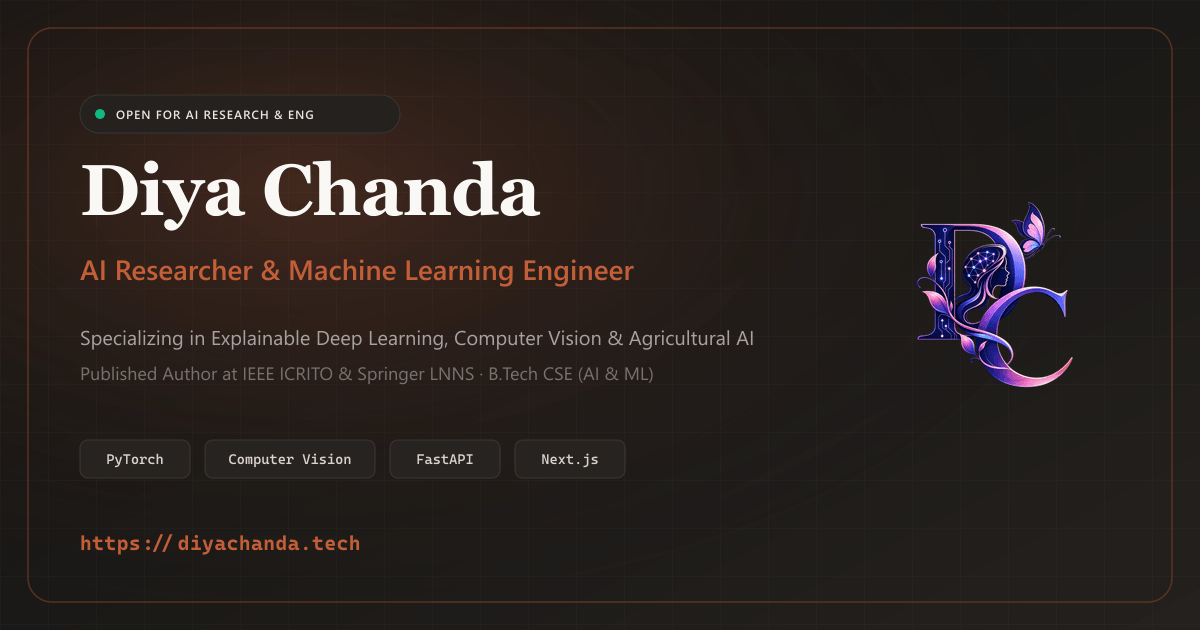
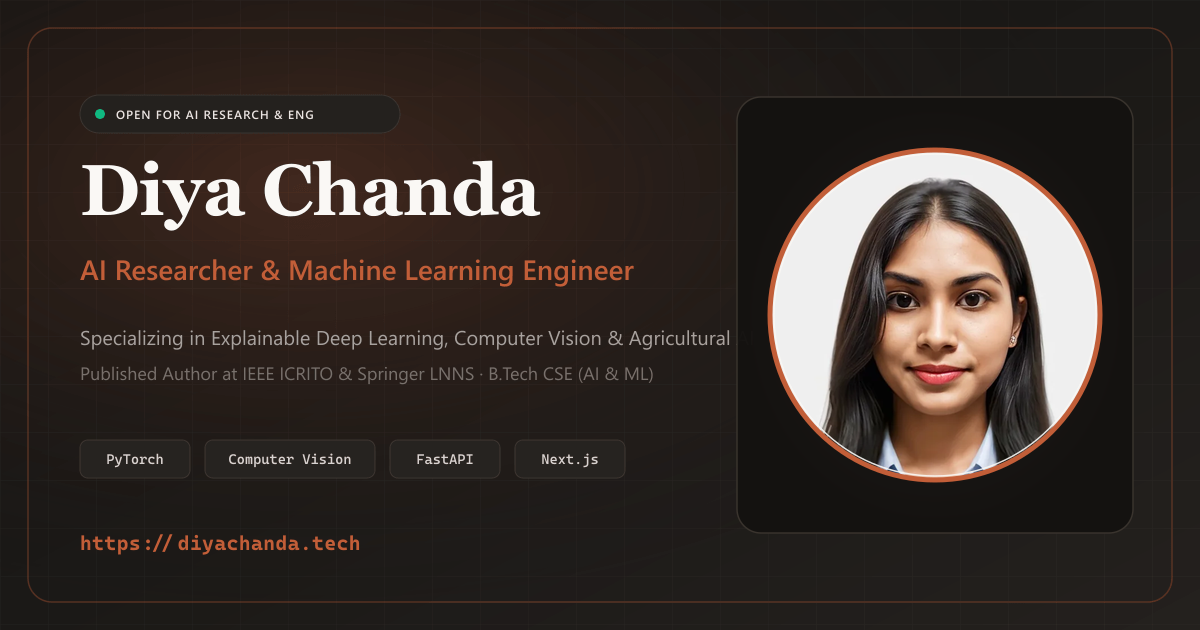
feat: add SEO metadata, OpenGraph images, and JSON-LD structured data

Changed region(s): [[0.6167, 0.2111, 0.925, 0.7841]]

diff --git a/src/components/common/StructuredData.tsx b/src/components/common/StructuredData.tsx
@@ -15,7 +15,7 @@ export const StructuredData = () => {
         name: 'Diya Chanda',
         url: baseUrl,
         logo: `${baseUrl}/images/logo.png`,
-        image: `${baseUrl}/images/og-image.png`,
+        image: `${baseUrl}/images/profile-square.png`,
         sameAs: [
           'https://github.com/chandadiya2004',
           'https://www.linkedin.com/in/diya-chanda2004/',
@@ -61,7 +61,7 @@ export const StructuredData = () => {
           description:
             'AI researcher and machine learning engineer bridging empirical deep learning with production web systems. Specializing in explainable AI, computer vision, and RAG-augmented intelligent architectures. Published author at IEEE ICRITO and Springer LNNS.',
           url: baseUrl,
-          image: `${baseUrl}/images/profile.webp`,
+          image: `${baseUrl}/images/profile-square.png`,
           sameAs: [
             'https://github.com/chandadiya2004',
             'https://www.linkedin.com/in/diya-chanda2004/',
@@ -91,7 +91,7 @@ export const StructuredData = () => {
         },
         primaryImageOfPage: {
           '@type': 'ImageObject',
-          url: `${baseUrl}/images/profile.webp`,
+          url: `${baseUrl}/images/profile-square.png`,
         },
       },
       /* Published Research Papers Schema - dynamically synced from research.json */

diff --git a/src/app/layout.tsx b/src/app/layout.tsx
@@ -95,10 +95,16 @@ export const metadata: Metadata = {
     siteName: 'Diya Chanda',
     images: [
       {
+        url: '/images/profile-square.png',
+        width: 800,
+        height: 800,
+        alt: 'Diya Chanda — AI Researcher & AI Engineer',
+      },
+      {
         url: '/images/og-image.png',
         width: 1200,
         height: 630,
-        alt: 'Diya Chanda — AI Researcher & Machine Learning Engineer',
+        alt: 'Diya Chanda — AI Researcher & AI Engineer',
       },
     ],
   },
@@ -148,6 +154,8 @@ export default function RootLayout({
     >
       <head>
         <StructuredData />
+        <link rel="image_src" href="/images/profile-square.png" />
+        <meta name="thumbnail" content={`${siteUrl}/images/profile-square.png`} />
         <link rel="icon" href="/favicon.ico" sizes="any" />
         <link rel="icon" href="/icon-48x48.png" type="image/png" sizes="48x48" />
         <link rel="icon" href="/icon-96x96.png" type="image/png" sizes="96x96" />
